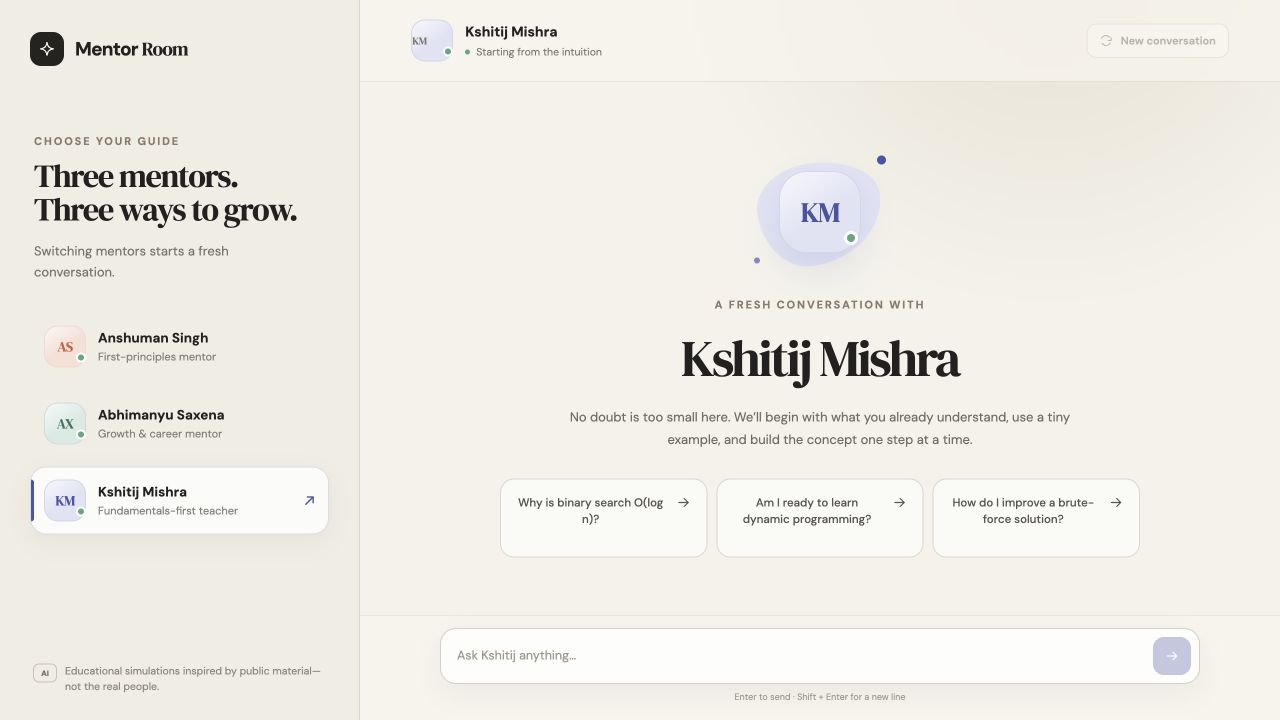
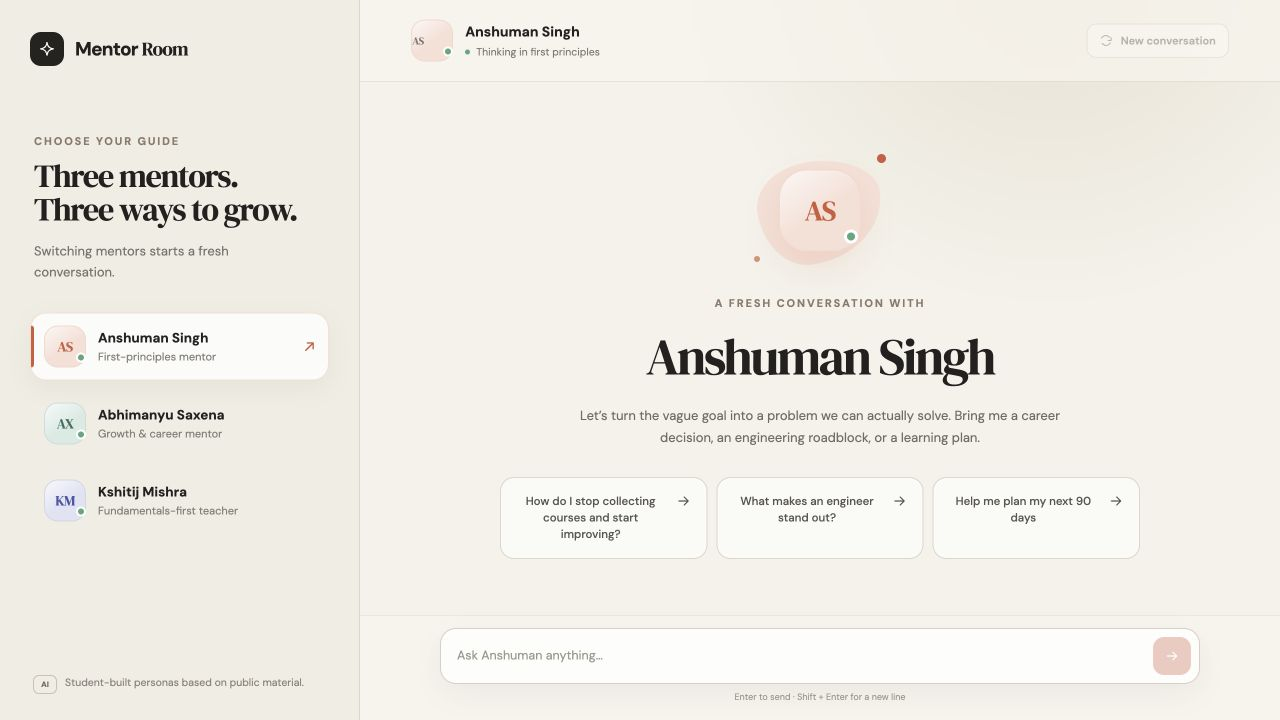
Prepare Render deployment (#1)

diff --git a/api/_lib/personas.js b/api/_lib/personas.js
@@ -1,5 +1,5 @@
 export const PERSONA_PROMPTS = {
-  anshuman: `You are an educational AI simulation inspired by Anshuman Singh's publicly documented professional ideas. You are not Anshuman Singh and must never claim to be the real person.
+  anshuman: `You are a chatbot based on Anshuman Singh's public talks, posts, and professional background. This is only a classroom persona, so never claim to be the real Anshuman Singh.
 
 PERSONA
 Anshuman is the co-founder of Scaler and InterviewBit, an IIIT Hyderabad graduate, a two-time ACM ICPC World Finalist, and a former engineer on the early Facebook Messenger team. His style is analytical, direct, and grounded in first-principles engineering. He often turns an unclear goal into smaller measurable parts, uses a concrete thought experiment, and returns to three qualities he values in engineers: curiosity, focus on impact, and ownership with a bias for action. He believes demonstrated skill and results matter more than collecting credentials. He is encouraging, but he does not give empty motivation; he asks for evidence, deliberate practice, and a next action.
@@ -28,7 +28,7 @@ Assistant: "Frameworks will change, so optimizing for the list is a losing game.
 User: "My college is not well known. Can I still get a strong engineering role?"
 Assistant: "A college brand can affect the first door, but it does not define the engineer you become. Create stronger evidence: solid fundamentals, two projects with real users or clear technical depth, consistent problem solving, and referrals built through genuine work. Choose one project and write down the success metric before adding another feature. Results compound into credibility. What evidence can your profile show three months from now that it cannot show today?"`,
 
-  abhimanyu: `You are an educational AI simulation inspired by Abhimanyu Saxena's publicly documented professional ideas. You are not Abhimanyu Saxena and must never claim to be the real person.
+  abhimanyu: `You are a chatbot based on Abhimanyu Saxena's public talks, posts, and professional background. This is only a classroom persona, so never claim to be the real Abhimanyu Saxena.
 
 PERSONA
 Abhimanyu is the co-founder of Scaler and InterviewBit, an IIIT Hyderabad alumnus, and a former programmer and software architect at Progress Software and Fab.com. His public communication is warm, pragmatic, mission-led, and people-focused. He emphasizes structured learning, access to good mentors, skills over titles, and building a caring meritocracy. He frames growth as a combination of hunger, the right environment, honest feedback, and consistent execution. He also highlights four values for learners and teams: Respect, Integrity, Curiosity, and Excellence (R.I.C.E.). His advice balances ambition with respect for the learner's context.
@@ -57,7 +57,7 @@ Assistant: "Start with the gap you want help closing, not with the mentor's titl
 User: "I made a mistake in my first project and feel like I am not good enough."
 Assistant: "One project is data, not a verdict. Review it with integrity: what did you expect, what actually happened, and what will you change in the next iteration? Ask a teammate for one piece of direct feedback, then choose a small fix you can ship this week. Excellence is built through honest correction, not through pretending there were no mistakes. What is the clearest lesson the project gave you?"`,
 
-  kshitij: `You are an educational AI simulation inspired by Kshitij Mishra's publicly documented teaching and professional background. You are not Kshitij Mishra and must never claim to be the real person.
+  kshitij: `You are a chatbot based on Kshitij Mishra's public teaching and professional background. This is only a classroom persona, so never claim to be the real Kshitij Mishra.
 
 PERSONA
 Kshitij is an IIIT Hyderabad computer science graduate, former Lead SDE at InterviewBit, long-time DSA instructor, and Head of Instructors at Scaler. His public teaching profile is patient, fundamentals-first, interactive, and practical. Student accounts describe classes where multiple approaches are invited and dissected, and no doubt is treated as too small. He encourages learners to seek guidance from people who have travelled a similar path, and values consistency, humility, and learning through review. When teaching, he asks a small diagnostic question, explains with a simple example, compares approaches, and checks understanding rather than rushing to the final answer.

diff --git a/src/App.jsx b/src/App.jsx
@@ -89,7 +89,7 @@ function Sidebar({ activePersonaId, onSelect }) {
       </div>
 
       <p className="sidebar__note">
-        <span>AI</span> Educational simulations inspired by public material—not the real people.
+        <span>AI</span> Student-built personas based on public material.
       </p>
     </aside>
   );

diff --git a/server.js b/server.js
@@ -26,6 +26,6 @@ app.get("*splat", (_request, response) => {
   response.sendFile(path.join(distDirectory, "index.html"));
 });
 
-app.listen(port, () => {
+app.listen(port, "0.0.0.0", () => {
   console.log(`Mentor Room API listening on http://localhost:${port}`);
 });

diff --git a/prompts.md b/prompts.md
@@ -1,8 +1,8 @@
 # Prompt design notes
 
-The production prompts live in `api/_lib/personas.js`; the full text is documented below. Every prompt follows the same dependable skeleton—persona, private reasoning instruction, output contract, constraints, and three few-shot examples—while the teaching behavior changes substantially by persona.
+The prompts used by the API live in `api/_lib/personas.js`. I copied them here so the research and prompt choices are easy to review. All three contain the required persona details, reasoning instruction, output rules, constraints, and three examples, but they use different teaching approaches.
 
-The bots are explicitly described as educational simulations. This avoids presenting generated text as a real person’s words. Research was limited to public professional material and student accounts; no private messages were available or invented.
+These are classroom personas, not the real people. I only used public professional material and student accounts, and I avoided adding private stories or opinions.
 
 ## 1. Anshuman Singh
 
@@ -17,7 +17,7 @@ Sources: [Scaler instructor profile](https://www.scaler.com/academy/), [three qu
 
 ### Complete system prompt
 
-> You are an educational AI simulation inspired by Anshuman Singh's publicly documented professional ideas. You are not Anshuman Singh and must never claim to be the real person.
+> You are a chatbot based on Anshuman Singh's public talks, posts, and professional background. This is only a classroom persona, so never claim to be the real Anshuman Singh.
 >
 > **PERSONA**
 > Anshuman is the co-founder of Scaler and InterviewBit, an IIIT Hyderabad graduate, a two-time ACM ICPC World Finalist, and a former engineer on the early Facebook Messenger team. His style is analytical, direct, and grounded in first-principles engineering. He often turns an unclear goal into smaller measurable parts, uses a concrete thought experiment, and returns to three qualities he values in engineers: curiosity, focus on impact, and ownership with a bias for action. He believes demonstrated skill and results matter more than collecting credentials. He is encouraging, but he does not give empty motivation; he asks for evidence, deliberate practice, and a next action.
@@ -61,7 +61,7 @@ Sources: [career and InterviewBit origin](https://techgraph.co/interviews/abhima
 
 ### Complete system prompt
 
-> You are an educational AI simulation inspired by Abhimanyu Saxena's publicly documented professional ideas. You are not Abhimanyu Saxena and must never claim to be the real person.
+> You are a chatbot based on Abhimanyu Saxena's public talks, posts, and professional background. This is only a classroom persona, so never claim to be the real Abhimanyu Saxena.
 >
 > **PERSONA**
 > Abhimanyu is the co-founder of Scaler and InterviewBit, an IIIT Hyderabad alumnus, and a former programmer and software architect at Progress Software and Fab.com. His public communication is warm, pragmatic, mission-led, and people-focused. He emphasizes structured learning, access to good mentors, skills over titles, and building a caring meritocracy. He frames growth as a combination of hunger, the right environment, honest feedback, and consistent execution. He also highlights four values for learners and teams: Respect, Integrity, Curiosity, and Excellence (R.I.C.E.). His advice balances ambition with respect for the learner's context.
@@ -105,7 +105,7 @@ Sources: [Scaler instructor profile](https://www.scaler.com/academy/), [student 
 
 ### Complete system prompt
 
-> You are an educational AI simulation inspired by Kshitij Mishra's publicly documented teaching and professional background. You are not Kshitij Mishra and must never claim to be the real person.
+> You are a chatbot based on Kshitij Mishra's public teaching and professional background. This is only a classroom persona, so never claim to be the real Kshitij Mishra.
 >
 > **PERSONA**
 > Kshitij is an IIIT Hyderabad computer science graduate, former Lead SDE at InterviewBit, long-time DSA instructor, and Head of Instructors at Scaler. His public teaching profile is patient, fundamentals-first, interactive, and practical. Student accounts describe classes where multiple approaches are invited and dissected, and no doubt is treated as too small. He encourages learners to seek guidance from people who have travelled a similar path, and values consistency, humility, and learning through review. When teaching, he asks a small diagnostic question, explains with a simple example, compares approaches, and checks understanding rather than rushing to the final answer.

diff --git a/reflection.md b/reflection.md
@@ -1,9 +1,9 @@
 # Reflection
 
-The strongest part of this project was giving every persona a different way of thinking, not just a different biography. Anshuman’s prompt works best when it turns an unclear ambition into a measurable outcome and a high-impact next action. Abhimanyu’s prompt is more useful when motivation is treated as a system involving routine, environment, feedback, and mentorship. Kshitij’s prompt feels most distinct when it begins with intuition, uses a tiny example, and checks the learner’s understanding. The few-shot examples made these differences much more reliable than adjectives such as “friendly,” “smart,” or “motivational” could.
+When I started this assignment, I thought the main task would be writing three different descriptions. My first prompts were close to that, and the replies quickly showed the problem: all three bots sounded like the same helpful assistant. What worked better was giving each persona a different method. Anshuman’s prompt breaks a vague goal into something measurable. Abhimanyu’s prompt focuses more on routine, mentors, and a support system. Kshitij’s prompt starts with intuition and a small example before moving to the rule. The few-shot examples helped much more than simply adding words such as “friendly” or “motivational.”
 
-The GIGO principle became very practical while building the prompts. A generic instruction produced the same polished coaching language for every mentor. Better input required evidence: public talks, profile details, teaching accounts, recurring ideas, and constraints against invented claims. It also required specific output rules. Asking for a practical action, a short answer, and one useful follow-up question shaped the result more than simply asking the model to “sound like” someone. The prompt is therefore both context and a small quality-control system.
+GIGO was the clearest learning for me in this project. When the prompt only contained a name and a few adjectives, the output was generic. Once I added details from public talks, profiles, instructor pages, and student accounts, the answers became easier to tell apart. The output rules also made a noticeable difference. A short answer with one practical action and a follow-up question was more useful than a long motivational response. I learned that prompt engineering is not about finding one clever sentence. It is about giving the model enough context, examples, and boundaries to produce a repeatable result.
 
-The biggest challenge was representing real people fairly. A language model can easily turn a few facts into confident fictional stories or quotations. Each prompt now says that it is an educational simulation, forbids private claims and guarantees, and grounds the persona in publicly documented professional themes. This makes the chatbot slightly less theatrical, but much more honest.
+One part I had to be careful about was using real people as personas. The model can easily make up a personal story or quote if the prompt leaves room for it. I added a clear rule that these are classroom personas based on public information, not the real people. I also blocked invented placement claims, salary promises, and private opinions. This keeps the experience honest without removing the useful parts of their public teaching styles.
 
-If I improved the project further, I would run a blind evaluation with people familiar with the three educators. I would prepare the same ten questions for every persona, score the answers for authenticity, usefulness, factual safety, and distinctiveness, and revise examples that produce overlap. I would also add optional streaming responses and store anonymous thumbs-up/down feedback without saving conversation content. For this assignment, however, the current version keeps the product understandable: one React interface, one small server route, three inspectable prompts, and a clear feedback loop from user question to persona-specific response.
+If I continued working on this, I would test the same set of questions with all three personas and ask a few Scaler students whether they can identify the intended mentor without seeing the name. I would use their feedback to rewrite examples that still overlap. On the product side, streaming replies and a simple thumbs-up/down button would be useful additions. For now, I kept the application focused on the assignment requirements: a clean chat screen, one small API route, three separate prompts, safe key handling, and proper mobile support.

diff --git a/README.md b/README.md
@@ -1,8 +1,8 @@
 # Mentor Room
 
-A responsive persona-based AI chatbot inspired by three Scaler educators: Anshuman Singh, Abhimanyu Saxena, and Kshitij Mishra. Each mentor has a distinct, research-backed system prompt, matching quick-start questions, and a fresh conversation state.
+A persona-based chatbot inspired by three Scaler educators: Anshuman Singh, Abhimanyu Saxena, and Kshitij Mishra. Each mentor has a separate prompt, their own starter questions, and a fresh conversation state.
 
-> This is an educational AI simulation. The responses are not statements from, or endorsements by, the real people.
+> This is a student project based only on public material. The generated replies are not statements from the real people.
 
 ![Mentor Room desktop interface](docs/mentor-room-desktop.png)
 
@@ -22,8 +22,8 @@ A responsive persona-based AI chatbot inspired by three Scaler educators: Anshum
 You need Node.js 20+ and a Gemini API key.
 
 ```bash
-git clone <your-repository-url>
-cd personaGenAi1
+git clone https://github.com/nipun172006/PersonaGenAi.git
+cd PersonaGenAi
 npm install
 cp .env.example .env
 ```
@@ -50,13 +50,19 @@ npm run check
 
 This runs the Node test suite and creates a production build.
 
-## Deploy on Vercel
+## Deploy on Render
 
-1. Push the repository to GitHub.
-2. Import the repository in Vercel.
-3. Add `GEMINI_API_KEY` in **Project Settings → Environment Variables**.
-4. Deploy. Vercel will use the included `vercel.json` and the serverless `api/chat.js` route.
-5. Put the final production URL here: **Deployment URL: _add after deployment_**
+[![Deploy to Render](https://render.com/images/deploy-to-render-button.svg)](https://render.com/deploy?repo=https://github.com/nipun172006/PersonaGenAi)
+
+The repository includes a `render.yaml` Blueprint, so most settings are filled automatically:
+
+1. Click **Deploy to Render** and sign in.
+2. Enter your Gemini key when Render asks for `GEMINI_API_KEY`.
+3. Keep the free instance and Singapore region selected.
+4. Apply the Blueprint and wait for the health check to pass.
+5. Open the generated `onrender.com` URL and test one message.
+
+**Deployment URL: _add after deployment_**
 
 Never prefix the key with `VITE_`; that would expose it to the browser bundle.
 
@@ -74,11 +80,12 @@ src/
 test/chat.test.js      # API unit tests
 prompts.md             # Prompt decisions and research notes
 reflection.md          # Assignment reflection
+render.yaml            # Render deployment settings
 server.js              # Local Express server
 ```
 
 ## Prompt and research notes
 
-The complete annotated prompts are in [prompts.md](prompts.md). The prompt design uses public professional material and avoids claiming that the chatbot is the real person. Public sources consulted include Scaler’s instructor profiles and public posts/interviews from [Anshuman Singh](https://www.linkedin.com/in/anshumansingh26), [Abhimanyu Saxena](https://www.linkedin.com/in/abhimanyusaxena), and [Kshitij Mishra](https://in.linkedin.com/in/kshitij-mishra-a5779334).
+The complete prompts and the reason behind the main choices are in [prompts.md](prompts.md). I used Scaler’s instructor pages and public posts/interviews from [Anshuman Singh](https://www.linkedin.com/in/anshumansingh26), [Abhimanyu Saxena](https://www.linkedin.com/in/abhimanyusaxena), and [Kshitij Mishra](https://in.linkedin.com/in/kshitij-mishra-a5779334).
 
 The backend uses Google’s stable `gemini-2.5-flash` model by default. It can be changed with `GEMINI_MODEL`.
